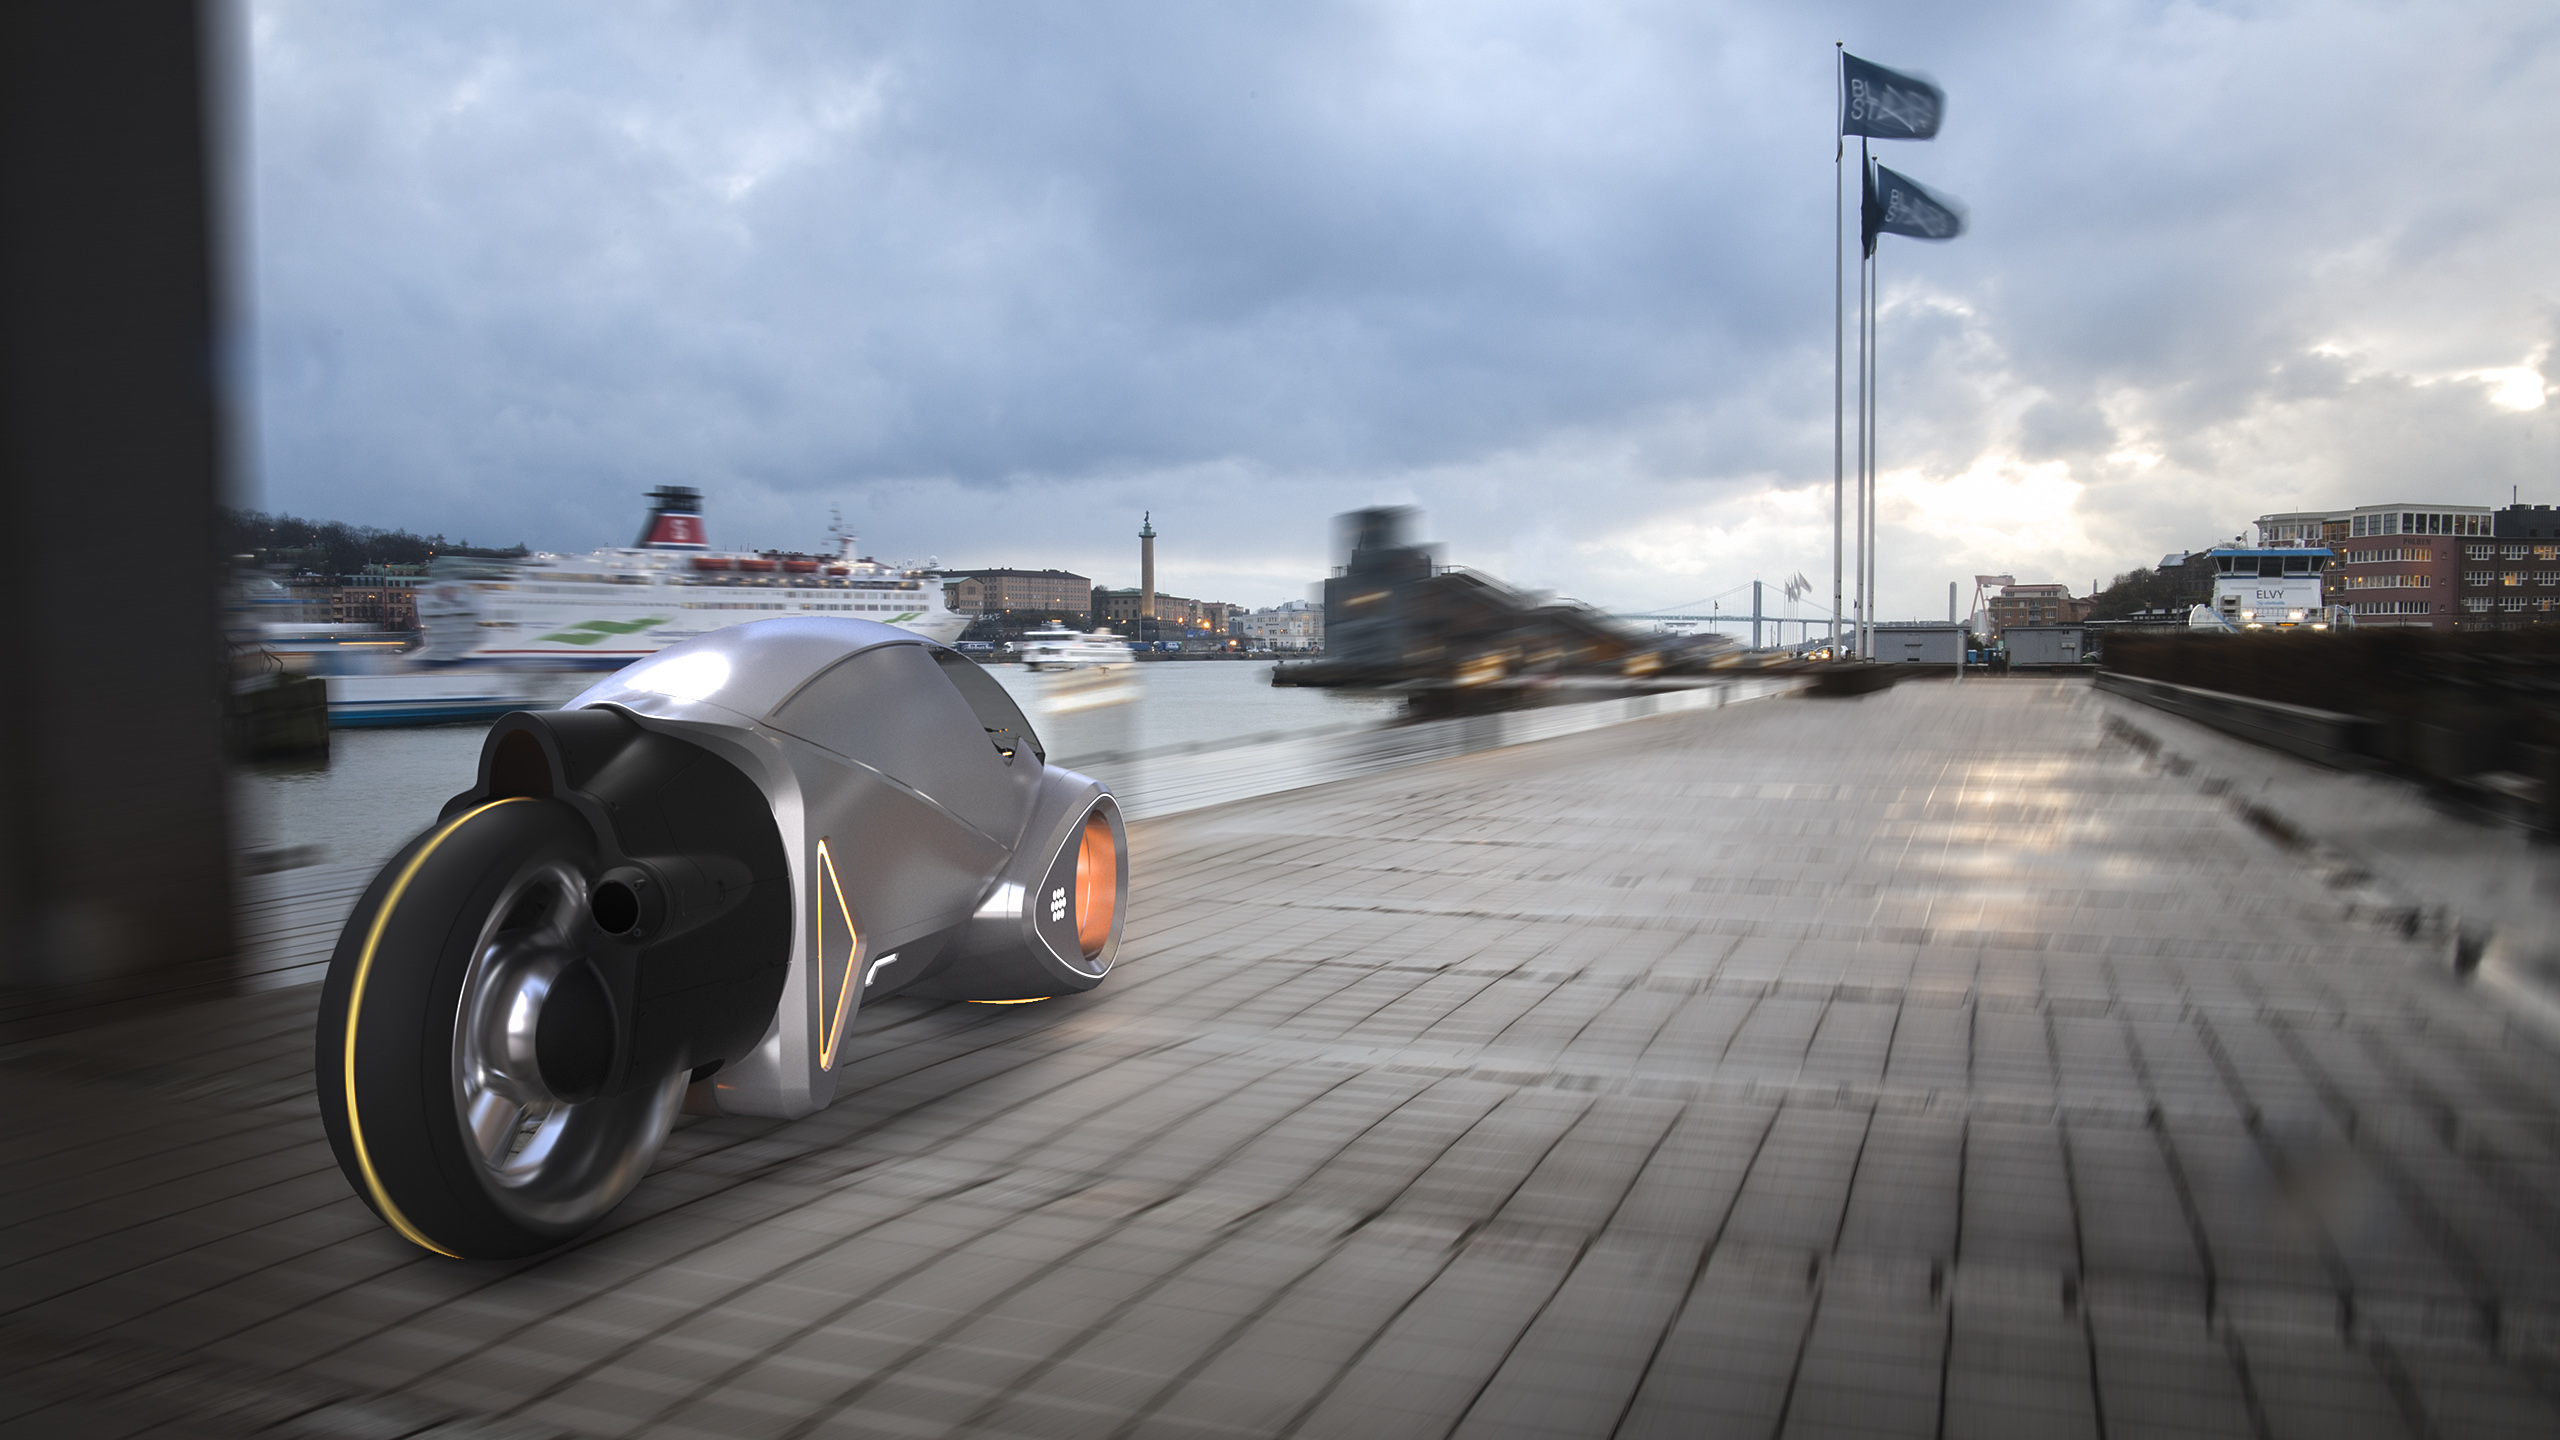
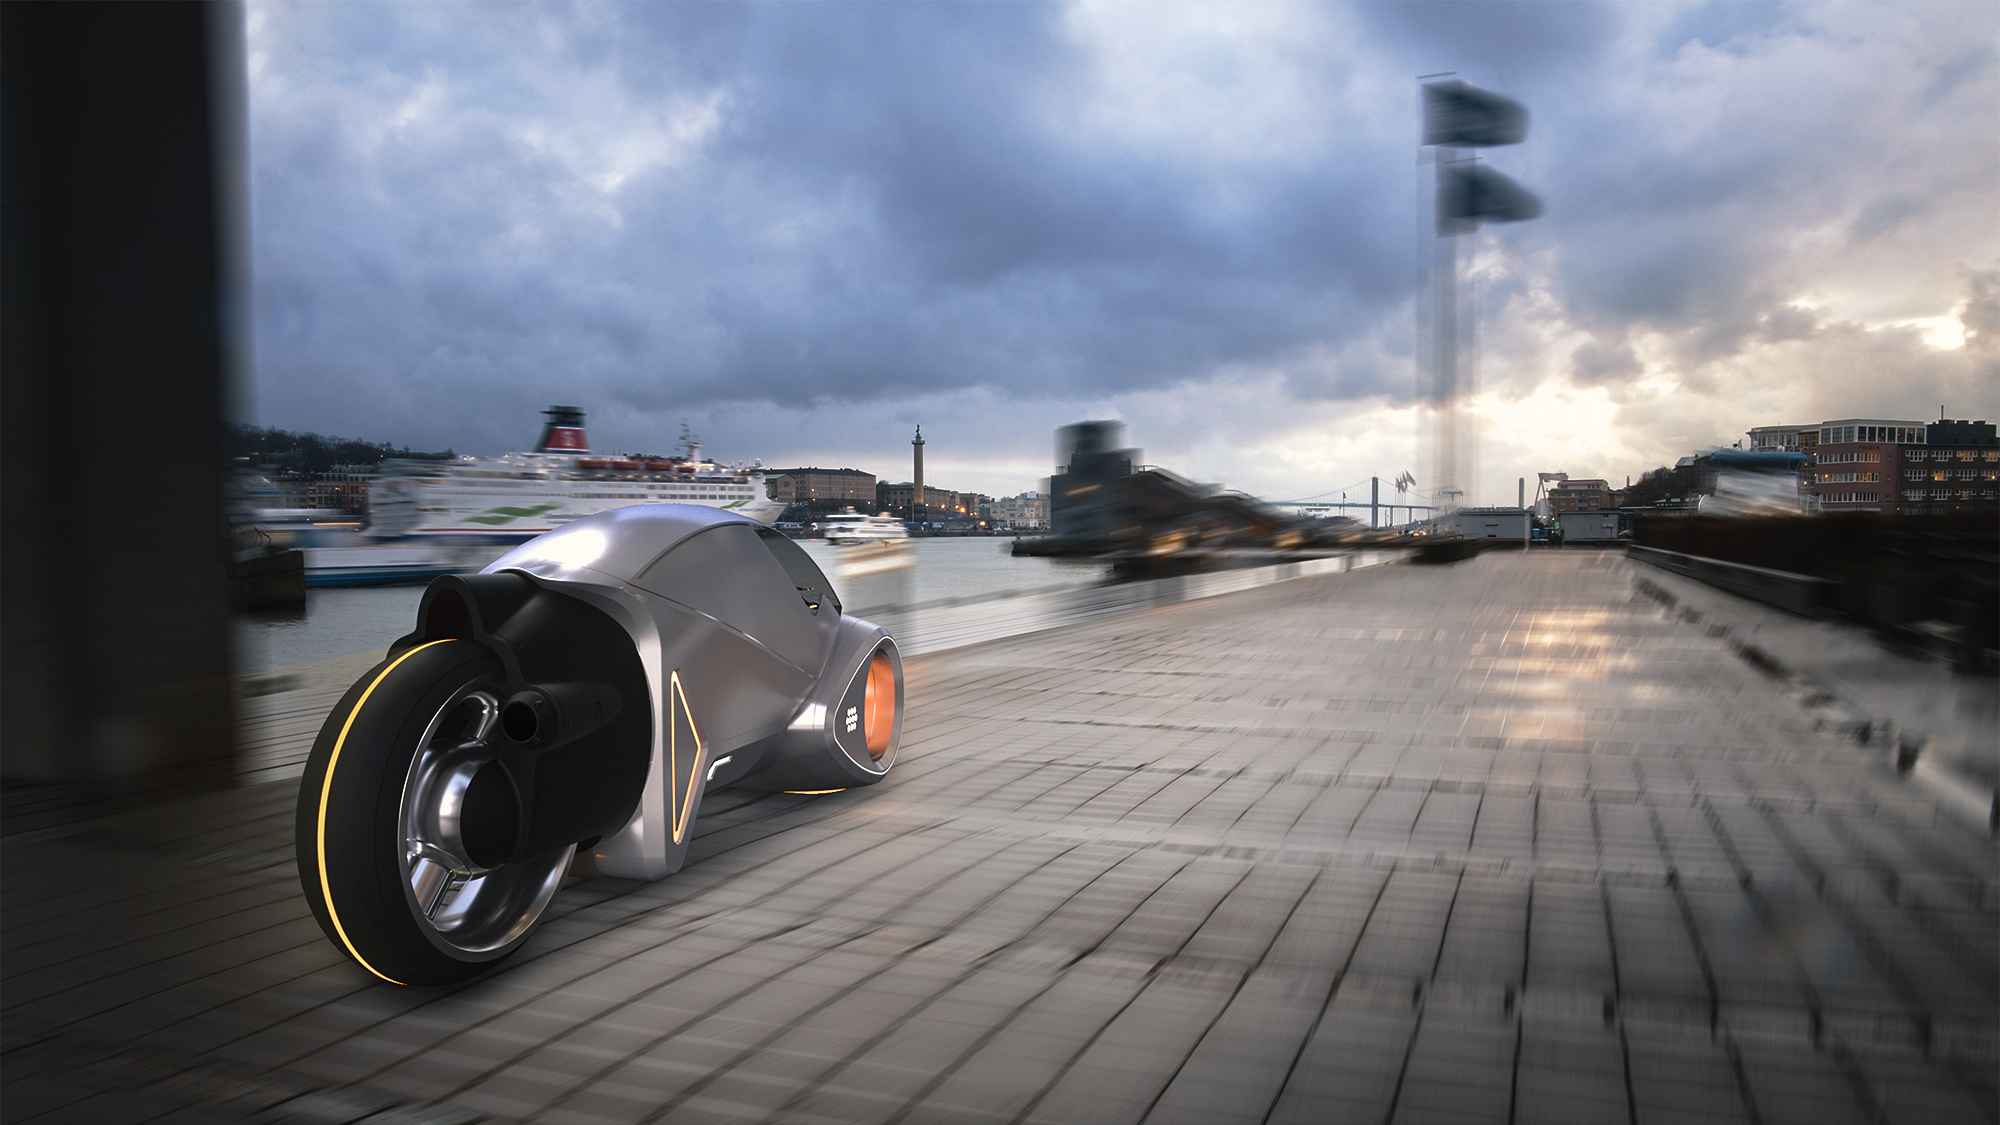
Updates: - Added title to tech specs in desktop view. - Added arrow up function in merchandise page - Replaced motion images in slideshow to the final draft. - Changed some margins

diff --git a/index.html b/index.html
@@ -207,8 +207,14 @@
             </div>
 
             <div class="technical-overlay-desktop">
+                <div class="tech-wrapper">
+                    <img src="./images/tech-specs-desktop.jpg" alt="BlackStar lightcycle technical overlay"
+                        loading="lazy">
 
-                <img src="./images/tech-specs-desktop.jpg" alt="BlackStar lightcycle technical overlay" loading="lazy">
+                    <h2 class="tech-desktop-title">
+                        <span>Technical specification</span>
+                    </h2>
+                </div>
 
                 <div class="hover-info">
                     <p>
@@ -283,8 +289,8 @@
                 ./images/environ_mobile.jpg 1166w
                 " src="./images/environ_desktop.jpg" alt="Image of the BlackStar lightcycle" loading="lazy">
                 <img srcset="
-                ./images/motion_desktop.jpg 2560w,
-                ./images/motion_mobile.jpg 1383w
+                ./images/motion_desktop.jpg 2000w,
+                ./images/motion_mobile.jpg 1322w
                 " src="./images/motion_desktop.jpg" alt="Image of the BlackStar lightcycle" loading="lazy">
                 <img srcset="
                 ./images/interior_desktop.jpg 1920w,

diff --git a/technical-specification.css b/technical-specification.css
@@ -28,10 +28,12 @@
 .technical-overlay-mobile h1 {
     color: var(--midnightblue);
     font-size: 1.8em;
-    margin-top: 60vh;
     margin-left: 5vw;
     z-index: 1;
     position: absolute;
+    bottom: 0;
+    margin-bottom: 10vh;
+
 }
 
 .technical-specification span {
@@ -102,6 +104,15 @@
         display: none;
     }
 
+    .tech-desktop-title {
+        position: absolute;
+        top: 0;
+        font-size: 2rem;
+        font-weight: 500;
+        margin: 12vh 0 0 5vw;
+
+    }
+
     /* ANIMATED TECHNICAL OVERLAY DESKTOP */
 
     .technical-overlay-desktop p {
@@ -117,7 +128,6 @@
         border-radius: 20%;
         opacity: 0.8;
         background-color: #FF8440;
-        /* box-shadow: 0 0 5px 2px lightgrey; */
         transition: all 0.4s ease-in-out;
     }
 

diff --git a/merch-store.html b/merch-store.html
@@ -14,7 +14,7 @@
     <link rel="stylesheet" href="row.css">
     <link rel="stylesheet" href="column.css">
     <link rel="stylesheet" href="frontpage.css">
-    <link rel="stylesheet" href="arrow-down.css">
+    <link rel="stylesheet" href="arrows.css">
     <link rel="stylesheet" href="carousel.css">
     <link rel="stylesheet" href="merch.css">
     <link rel="stylesheet" href="footer.css">

diff --git a/merchandise.js b/merchandise.js
@@ -93,3 +93,7 @@ readLessText.addEventListener("click", () => {
     readMoreDiv.style.display = "none";
     readMoreText.style.display = "inline";
 })
+
+// When you click on the arrow up in the footer you scroll to the top of the page.
+
+document.querySelector(".arrow-up").addEventListener('click', scrollToTop);
